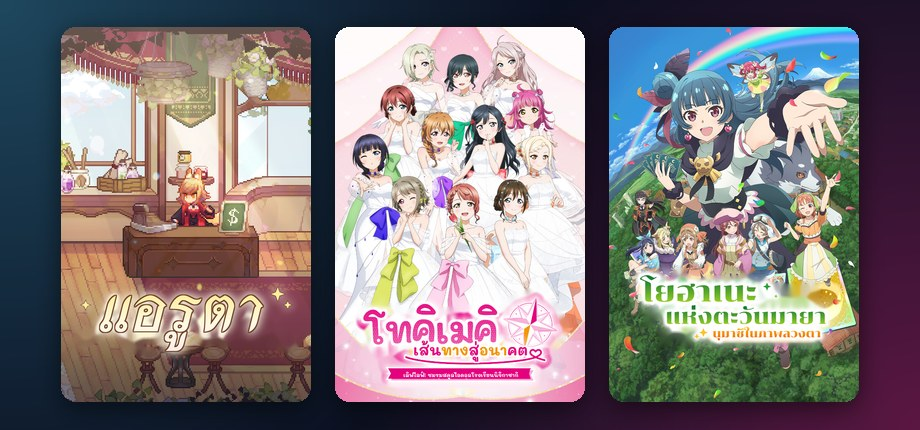
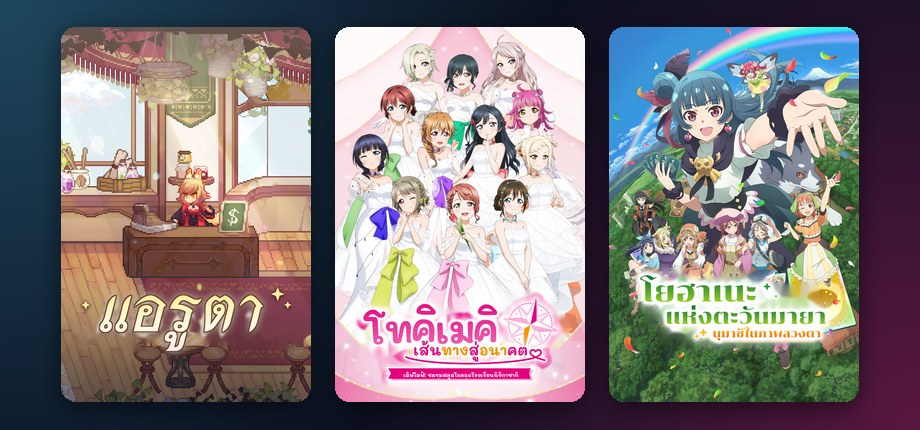
Steam covers: Train45 keeps its own plate frame and numbers, Aeruta without the cream haze (user: colours looked off)

Changed region(s): [[0.0913, 0.6651, 0.3348, 0.8465]]

diff --git a/index.html b/index.html
@@ -208,7 +208,7 @@
         <article class="mod" id="steam-covers">
           <div class="top">
             <div class="side">
-              <div class="shot"><img src="assets/steam-covers.jpg?v=b35ad099" alt="ตัวอย่างปกเกมภาษาไทยในคลัง Steam" width="460" height="215" loading="lazy"></div>
+              <div class="shot"><img src="assets/steam-covers.jpg?v=c9e1819d" alt="ตัวอย่างปกเกมภาษาไทยในคลัง Steam" width="460" height="215" loading="lazy"></div>
             </div>
             <div class="body">
               <h3>ปกเกม + โลโก้ภาษาไทย 5 เกม</h3>
@@ -224,7 +224,7 @@
                 <a class="btn primary" href="https://github.com/OIL333/thai-mods/releases/download/steam-covers-v1.0/Thai-Steam-Covers-TripleT.zip"><svg class="ico" viewBox="0 0 24 24" aria-hidden="true"><path d="M12 4v11m0 0-4.6-4.6M12 15l4.6-4.6M5 19.5h14"/></svg>ดาวน์โหลด</a>
                 <button class="btn" type="button" data-open="guide-covers">วิธีเปลี่ยนปก<svg class="ico chev" viewBox="0 0 24 24" aria-hidden="true"><path d="m6 9 6 6 6-6"/></svg></button>
               </div>
-              <p class="dl-meta">ไฟล์ zip 5.6 MB · ภาพเกมเป็นของเจ้าของลิขสิทธิ์ เราแค่เปลี่ยนโลโก้เป็นภาษาไทย</p>
+              <p class="dl-meta">ไฟล์ zip 5.4 MB · ภาพเกมเป็นของเจ้าของลิขสิทธิ์ เราแค่เปลี่ยนโลโก้เป็นภาษาไทย</p>
             </div>
           </div>
           <details class="guide" id="guide-covers">
